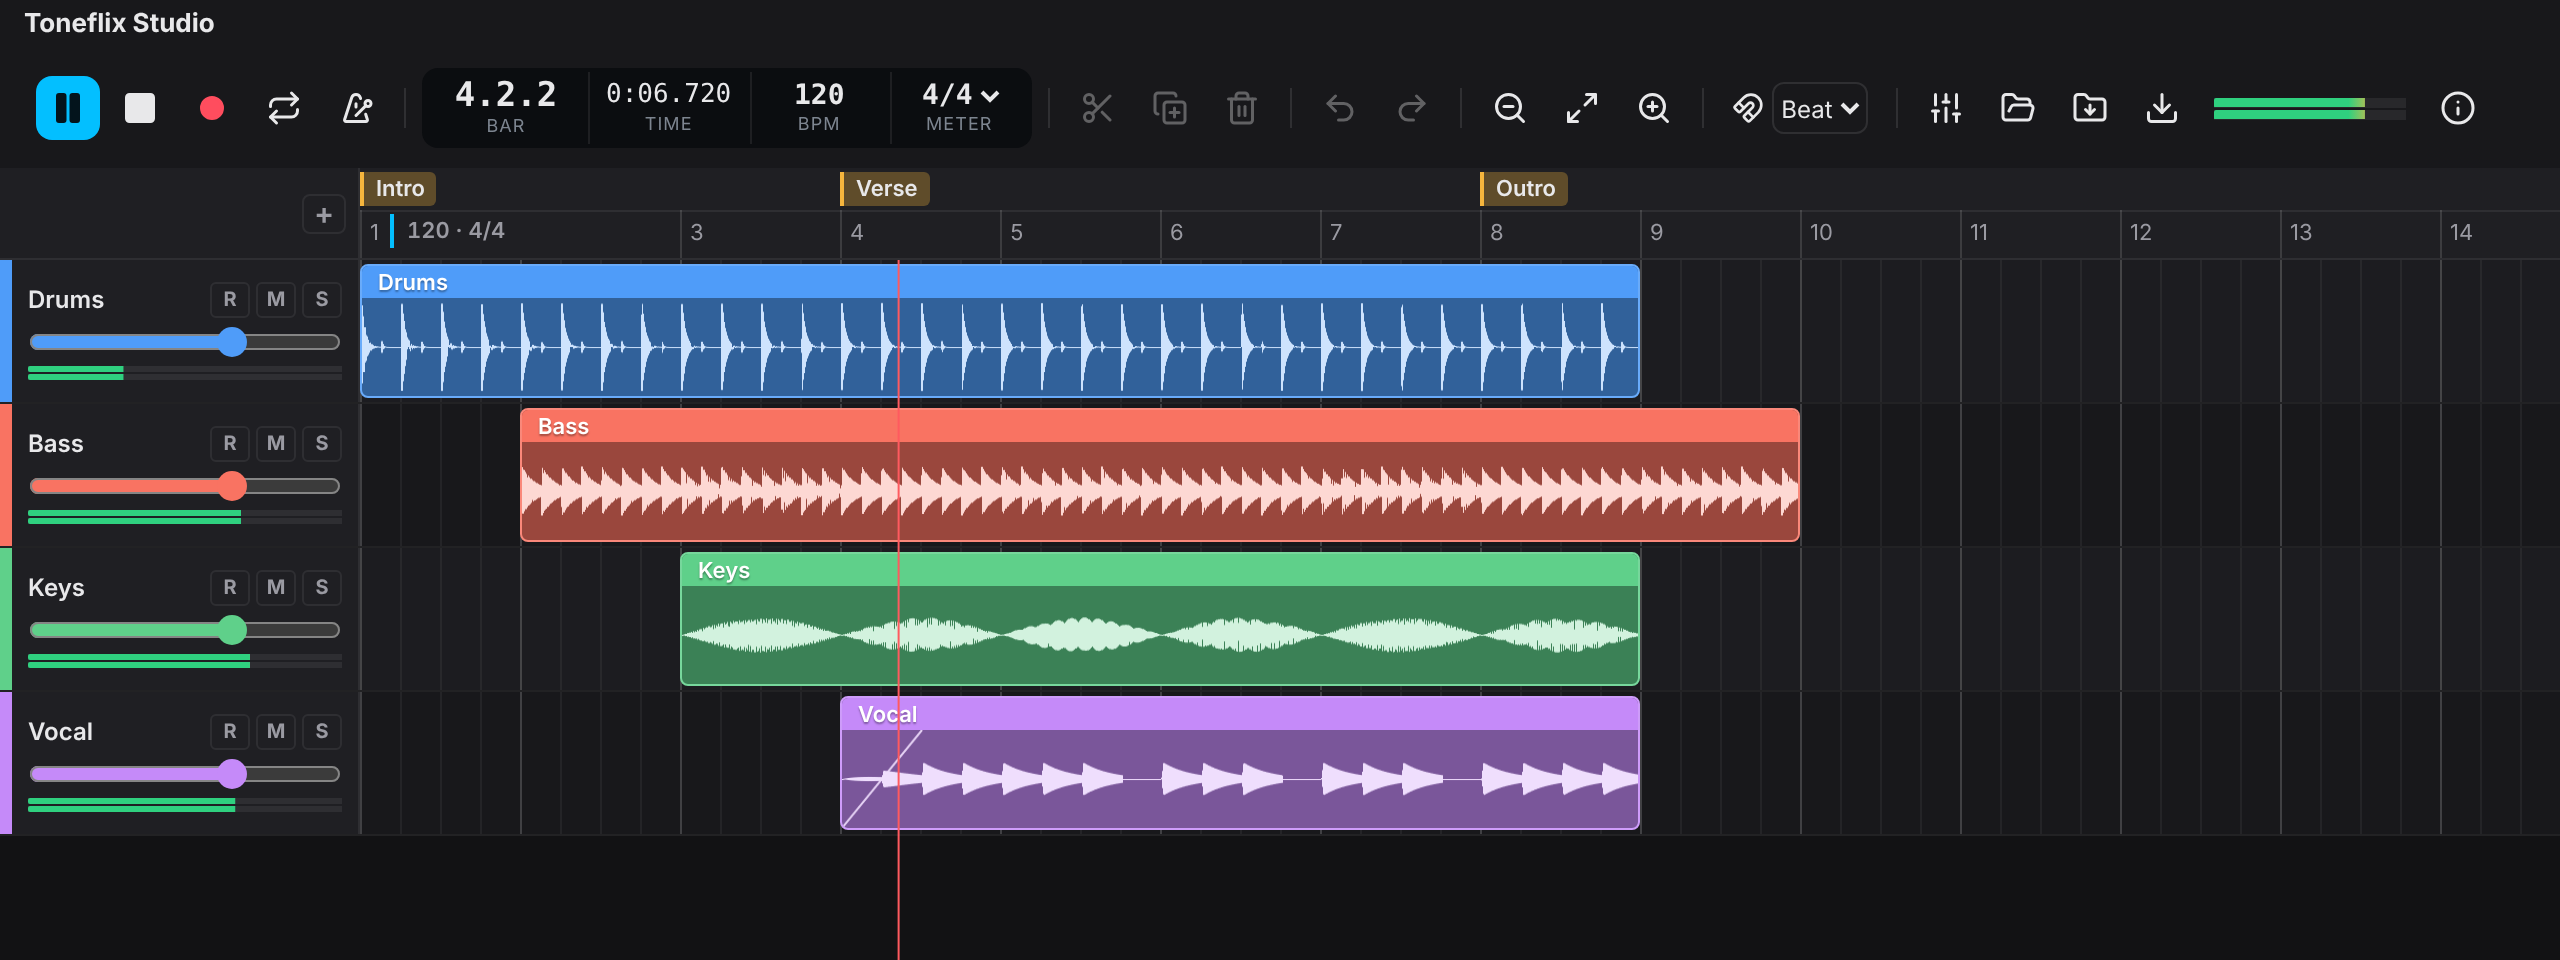
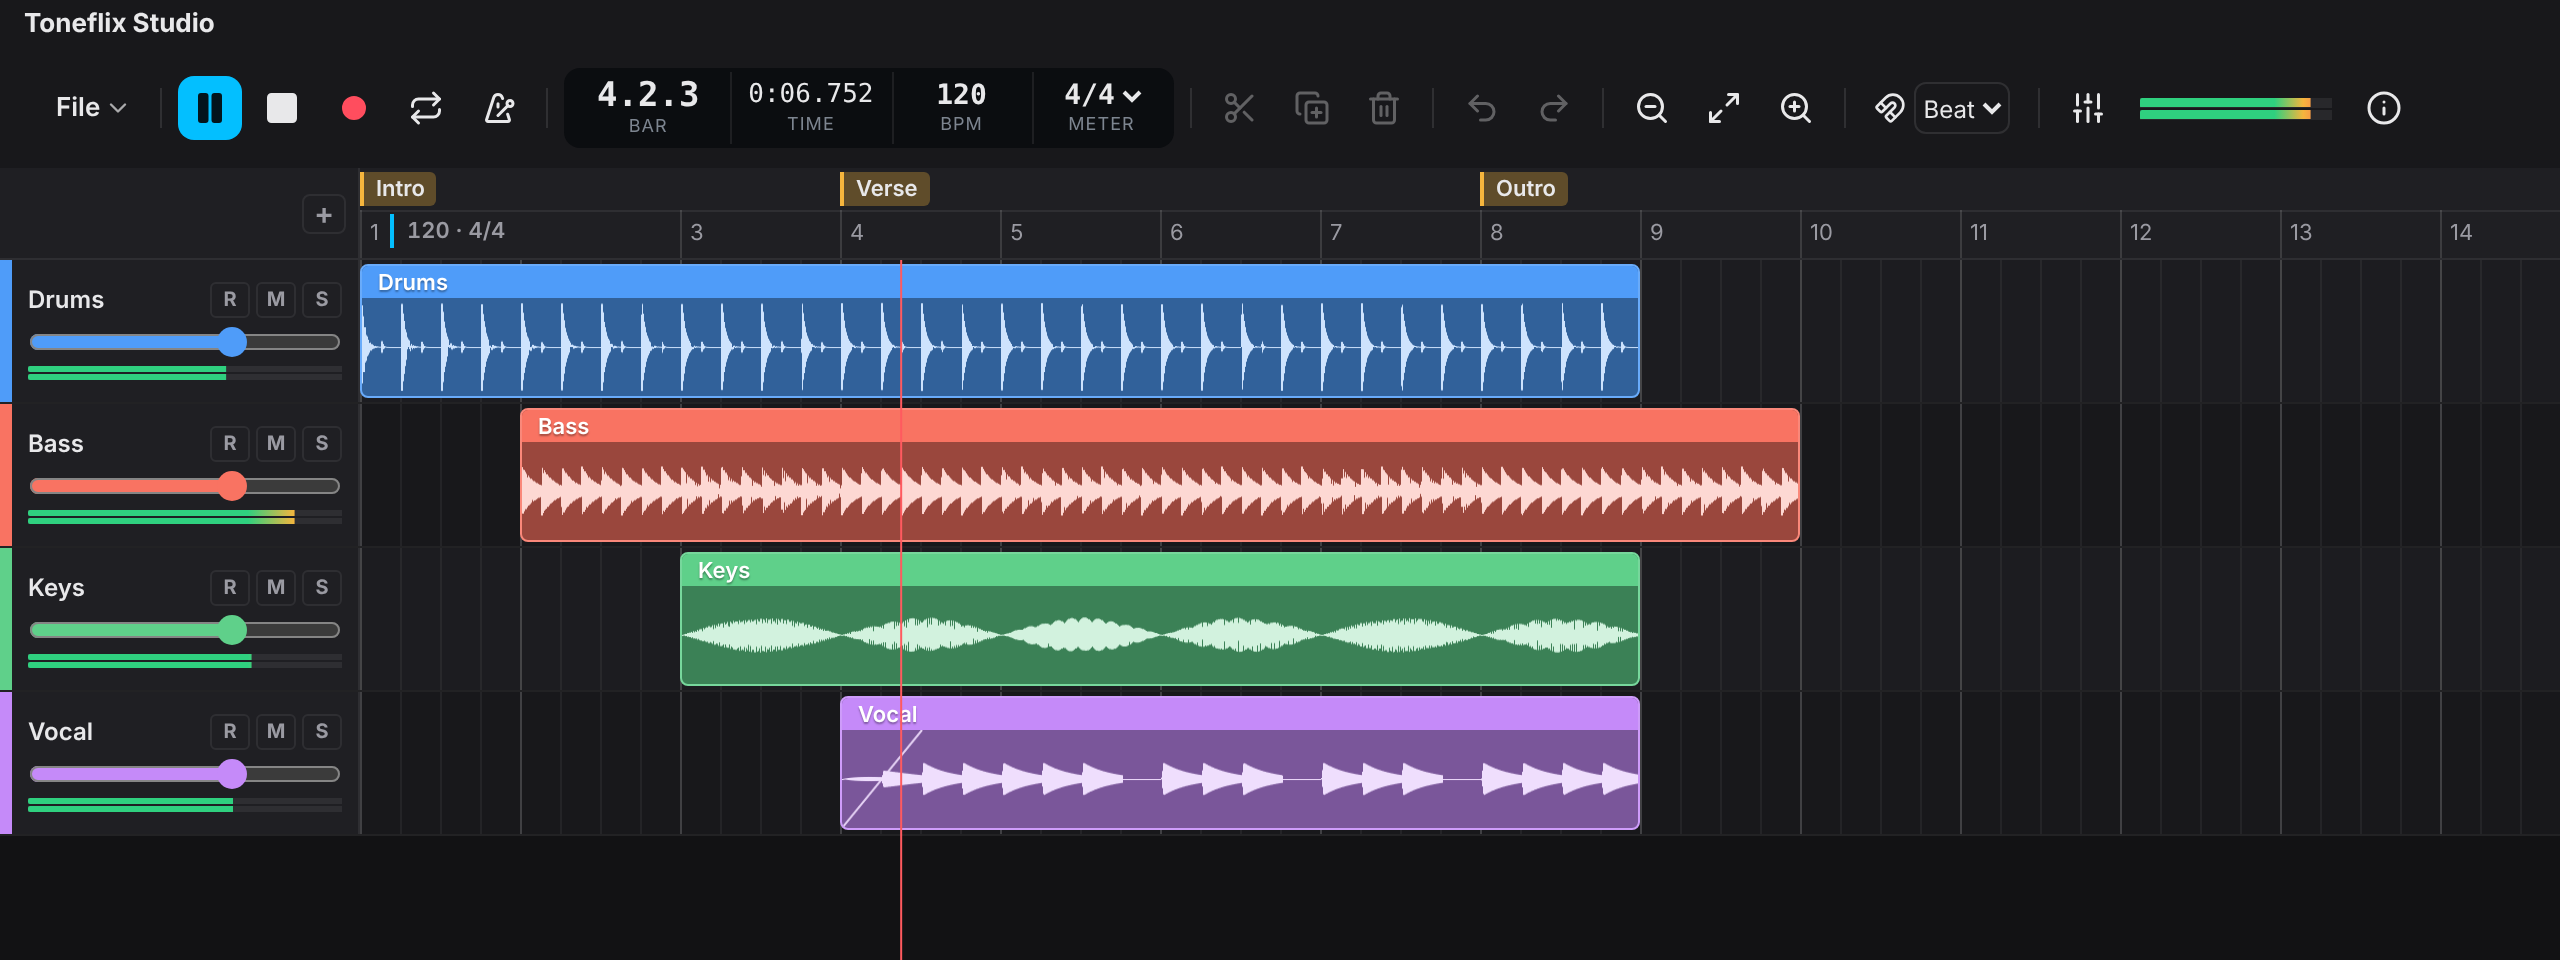
feat(controls): File menu for opening, saving and exporting
The default toolbar has a File menu in place of the open, save and export
buttons. Those items still exist for toolbars that want them as buttons.

Changed region(s): [[0.0, 0.0625, 0.9688, 0.1562], [0.0312, 0.375, 0.0938, 0.4062], [0.0938, 0.5312, 0.125, 0.5625]]

diff --git a/packages/controls/src/toolbar.ts b/packages/controls/src/toolbar.ts
@@ -11,8 +11,8 @@ import { createMeter } from './meter.ts';
 import type { StudioMixer } from './mixer-view.ts';
 import { injectControlStyles } from './styles.ts';
 
-/** A toolbar button, the snap picker, the transport display, the output meter, or `'|'` for a divider. */
-export type ToolbarItem = Exclude<IconName, 'pause' | 'mute' | 'solo' | 'save' | 'close'> | 'display' | 'meter' | '|';
+/** A toolbar button, the File menu, the snap picker, the transport display, the output meter, or `'|'` for a divider. */
+export type ToolbarItem = Exclude<IconName, 'pause' | 'mute' | 'solo' | 'save' | 'close' | 'chevron'> | 'file' | 'display' | 'meter' | '|';
 
 export type ToolbarLabels = Record<Exclude<ToolbarItem, '|'> | 'pause' | 'tempo' | 'timeSignature' | 'save' | 'close' | 'appProject' | 'reaperProject', string>;
 
@@ -85,6 +85,8 @@ export interface ToolbarOptions {
 }
 
 export const DEFAULT_TOOLBAR: ToolbarItem[] = [
+  'file',
+  '|',
   'play',
   'stop',
   'record',
@@ -107,9 +109,6 @@ export const DEFAULT_TOOLBAR: ToolbarItem[] = [
   'snap',
   '|',
   'mixer',
-  'openProject',
-  'saveProject',
-  'export',
   'meter',
   'info',
 ];
@@ -130,22 +129,23 @@ export const DEFAULT_LABELS: ToolbarLabels = {
   zoomOut: 'Zoom out',
   fit: 'Fit to view',
   snap: 'Snap',
-  export: 'Export WAV',
+  export: 'Export mix (WAV)',
   display: 'Playhead position',
   tempo: 'Tempo',
   timeSignature: 'Time signature',
   meter: 'Output level',
   info: 'Session info',
   mixer: 'Mixer',
+  file: 'File',
   saveProject: 'Save project',
-  openProject: 'Open a project',
-  appProject: '{app} project (.{ext}), with plugins',
-  reaperProject: 'REAPER project (.zip), without plugins',
+  openProject: 'Open project…',
+  appProject: 'Save as {app} project (.{ext})',
+  reaperProject: 'Save as REAPER project (.zip), without plugins',
   save: 'Save',
   close: 'Close',
 };
 
-const AUDIO: ToolbarItem[] = ['play', 'stop', 'record', 'loop', 'metronome', 'export', 'meter', 'saveProject', 'openProject'];
+const AUDIO: ToolbarItem[] = ['play', 'stop', 'record', 'loop', 'metronome', 'export', 'meter', 'saveProject', 'openProject', 'file'];
 const SNAPS: [SnapTo, string][] = [
   ['off', 'Off'],
   ['bar', 'Bar'],
@@ -206,7 +206,7 @@ export class StudioToolbar {
     const items = (options.items ?? DEFAULT_TOOLBAR).filter(
       (item) =>
         actions.has(item) ||
-        (item === 'mixer' ? !!this.mixer : item === 'record' ? !!this.recorder : this.engine || !AUDIO.includes(item as ToolbarItem) || (item === 'export' && this.onSave)),
+        (item === 'mixer' ? !!this.mixer : item === 'record' ? !!this.recorder : this.engine || !AUDIO.includes(item as ToolbarItem) || ((item === 'export' || item === 'file') && this.onSave)),
     );
 
     for (const [i, item] of items.entries()) {
@@ -220,7 +220,8 @@ export class StudioToolbar {
       } else if (item === 'snap') this.place(item, this.snapPicker());
       else if (item === 'display') this.place(item, this.display());
       else if (item === 'meter') this.place(item, this.outputMeter());
-      else this.place(item, this.button(item as Exclude<ToolbarItem, '|' | 'snap' | 'display' | 'meter'>));
+      else if (item === 'file') this.place(item, this.fileButton());
+      else this.place(item, this.button(item as Exclude<ToolbarItem, '|' | 'snap' | 'display' | 'meter' | 'file'>));
     }
 
     for (const action of actions.values()) this.addAction(action);
@@ -381,7 +382,7 @@ export class StudioToolbar {
         this.pickFormat();
         break;
       case 'openProject':
-        this.openProject();
+        this.openProject(this.buttons.get('openProject'));
         break;
       case 'info':
         this.showInfo();
@@ -432,21 +433,52 @@ export class StudioToolbar {
   /** Ask which format to save in when there is a choice, then save. */
   private pickFormat() {
     const button = this.buttons.get('saveProject');
-    const { formats, app } = this.project;
-    const save = (format: ProjectFormat) => void this.busy(button, () => this.saveProject(format));
+    const formats = this.project.formats;
 
-    if (formats.length === 1 || !button) return save(formats[0]!);
+    if (formats.length === 1 || !button) return void this.busy(button, () => this.saveProject(formats[0]!));
 
     const box = button.getBoundingClientRect();
+
+    openMenu(this.doc, { x: box.left, y: box.bottom + 4 }, this.saveItems(button), this.labels.saveProject);
+  }
+
+  /** A menu item to save in each format the toolbar offers. */
+  private saveItems(button: HTMLButtonElement | undefined) {
+    const { formats, app } = this.project;
     const label = (format: ProjectFormat) =>
       format === 'app' ? this.labels.appProject.replace('{app}', app.name).replace('{ext}', app.extension ?? DEFAULT_APP.extension) : this.labels.reaperProject;
 
-    openMenu(
-      this.doc,
-      { x: box.left, y: box.bottom + 4 },
-      formats.map((format) => ({ label: label(format), onSelect: () => save(format) })),
-      this.labels.saveProject,
-    );
+    return formats.map((format) => ({ label: label(format), onSelect: () => void this.busy(button, () => this.saveProject(format)) }));
+  }
+
+  /** The File button, which opens a menu to open and save projects and export the mix. */
+  private fileButton() {
+    const button = this.doc.createElement('button');
+    const text = this.doc.createElement('span');
+
+    button.type = 'button';
+    button.className = 'tfs-tool tfs-tool--menu';
+    button.dataset.tool = 'file';
+    button.setAttribute('aria-haspopup', 'menu');
+    text.textContent = this.labels.file;
+    button.append(text, renderIcon(this.doc, 'chevron', this.icons));
+    button.addEventListener('click', () => {
+      const box = button.getBoundingClientRect();
+      const exportLabel = this.onSave ? this.labels.save : this.labels.export;
+
+      openMenu(
+        this.doc,
+        { x: box.left, y: box.bottom + 4 },
+        [
+          ...(this.engine ? [{ label: this.labels.openProject, onSelect: () => this.openProject(button) }, ...this.saveItems(button)] : []),
+          { label: exportLabel, onSelect: () => void this.busy(button, () => (this.onSave ? this.onSave(this.context) : this.download())) },
+        ],
+        this.labels.file,
+      );
+    });
+    this.buttons.set('file', button);
+
+    return button;
   }
 
   /** Download the session as a project; the app format keeps the plugins. */
@@ -464,7 +496,7 @@ export class StudioToolbar {
   }
 
   /** Pick an app project, a zipped REAPER project, or an .rpp with its audio files, and open it. */
-  private openProject() {
+  private openProject(button: HTMLButtonElement | undefined) {
     const engine = this.engine;
     if (!engine) return;
 
@@ -477,7 +509,7 @@ export class StudioToolbar {
       const files = [...(input.files ?? [])];
       if (!files.length) return;
 
-      void this.busy(this.buttons.get('openProject'), async () => {
+      void this.busy(button, async () => {
         const result = await openProject(files.length === 1 ? files[0]! : files, this.timeline, engine, {
           onSource: this.project.onProjectSource,
           plugins: this.plugins,
@@ -558,7 +590,7 @@ export class StudioToolbar {
     return meter.element;
   }
 
-  private button(item: Exclude<ToolbarItem, '|' | 'snap' | 'display' | 'meter'>) {
+  private button(item: Exclude<ToolbarItem, '|' | 'snap' | 'display' | 'meter' | 'file'>) {
     const button = this.doc.createElement('button');
 
     button.type = 'button';

diff --git a/packages/controls/src/styles.ts b/packages/controls/src/styles.ts
@@ -32,6 +32,8 @@ export const CONTROL_STYLES = `
 .tfs-tool[aria-pressed='true'], .tfs-tool--primary { background: var(--tfs-toolbar-active, #03bfff); color: var(--tfs-toolbar-active-text, #03141c); }
 .tfs-tool[aria-pressed='true']:hover:not(:disabled), .tfs-tool--primary:hover:not(:disabled) { background: var(--tfs-toolbar-active, #03bfff); filter: brightness(1.1); }
 .tfs-tool .tfs-icon { width: 18px; height: 18px; }
+.tfs-tool.tfs-tool--menu { width: auto; gap: 2px; padding: 0 6px 0 10px; font: 600 13px/1 system-ui, sans-serif; }
+.tfs-tool.tfs-tool--menu .tfs-icon { width: 14px; height: 14px; opacity: 0.7; }
 .tfs-toolbar-gap { width: 1px; height: 20px; margin: 0 4px; background: var(--tfs-toolbar-line, rgba(255, 255, 255, 0.1)); }
 .tfs-snap-pick { display: inline-flex; align-items: center; gap: 4px; height: var(--tfs-toolbar-size, 32px); padding: 0 6px; border-radius: 8px; }
 .tfs-snap-pick .tfs-icon { width: 16px; height: 16px; }

diff --git a/docs/.vitepress/theme/Landing.vue b/docs/.vitepress/theme/Landing.vue
@@ -79,7 +79,7 @@ onMounted(async () => {
     mixer,
     recorder,
     plugins,
-    items: ['play', 'stop', 'record', 'loop', 'metronome', '|', 'display', '|', 'split', 'duplicate', 'delete', '|', 'undo', 'redo', '|', 'zoomOut', 'fit', 'zoomIn', '|', 'mixer', 'openProject', 'saveProject', 'meter'],
+    items: ['file', '|', 'play', 'stop', 'record', 'loop', 'metronome', '|', 'display', '|', 'split', 'duplicate', 'delete', '|', 'undo', 'redo', '|', 'zoomOut', 'fit', 'zoomIn', '|', 'mixer', 'meter'],
     onProjectSource: (id, buffer) => void waveforms.get(`project:${id}:${buffer.length}`, () => buffer).then((peaks) => view.setSource({ id }, peaks)),
   });
   loadSample(view, { engine: audio, waveforms });

diff --git a/packages/controls/src/lucide.ts b/packages/controls/src/lucide.ts
@@ -27,4 +27,5 @@ export const lucideIcons = {
   mixer: '<path d="M10 8h4"/><path d="M12 21v-9"/><path d="M12 8V3"/><path d="M17 16h4"/><path d="M19 12V3"/><path d="M19 21v-5"/><path d="M3 14h4"/><path d="M5 10V3"/><path d="M5 21v-7"/>',
   saveProject: '<path d="M20 20a2 2 0 0 0 2-2V8a2 2 0 0 0-2-2h-7.9a2 2 0 0 1-1.69-.9L9.6 3.9A2 2 0 0 0 7.93 3H4a2 2 0 0 0-2 2v13a2 2 0 0 0 2 2Z"/><path d="M12 10v6"/><path d="m15 13-3 3-3-3"/>',
   openProject: '<path d="m6 14 1.5-2.9A2 2 0 0 1 9.24 10H20a2 2 0 0 1 1.94 2.5l-1.54 6a2 2 0 0 1-1.95 1.5H4a2 2 0 0 1-2-2V5a2 2 0 0 1 2-2h3.9a2 2 0 0 1 1.69.9l.81 1.2a2 2 0 0 0 1.67.9H18a2 2 0 0 1 2 2v2"/>',
+  chevron: '<path d="m6 9 6 6 6-6"/>',
 };

diff --git a/scripts/icons.ts b/scripts/icons.ts
@@ -28,6 +28,7 @@ const icons: Record<string, string> = {
   mixer: 'sliders-vertical',
   saveProject: 'folder-down',
   openProject: 'folder-open',
+  chevron: 'chevron-down',
 };
 
 /** Shape attributes changed from Lucide's: the record dot is drawn smaller, as on hardware. */

diff --git a/docs/guide/controls.md b/docs/guide/controls.md
@@ -14,7 +14,7 @@ new StudioToolbar('#toolbar', { timeline, engine });
 linkPlayback(timeline, engine);
 ```
 
-The default toolbar has play, stop, loop and metronome, the transport display, split, duplicate, delete, undo, redo, zoom, fit, snap, the mixer, open and save a [project](./projects) in your app's format or REAPER's, export, the output meter and info. Undo, redo, split, duplicate and delete are disabled when there's nothing to do. Play turns into pause while playing.
+The default toolbar has a File menu, play, stop, loop and metronome, the transport display, split, duplicate, delete, undo, redo, zoom, fit, snap, the mixer, the output meter and info. The File menu opens and saves a [project](./projects), in your app's format or REAPER's, and exports the mix as a WAV file (or calls `onSave`). `openProject`, `saveProject` and `export` are also items of their own, for toolbars that want them as buttons. Undo, redo, split, duplicate and delete are disabled when there's nothing to do. Play turns into pause while playing.
 
 Pick the buttons and their order with `items`. `'|'` adds a divider:
 
@@ -179,7 +179,7 @@ setDefaultIcons({ play: playSvg, pause: pauseSvg, stop: stopSvg });
 
 Mute and solo show the letters M and S unless you give them icons. The arm button always shows R.
 
-Icon names: `play`, `pause`, `stop`, `record`, `loop`, `metronome`, `split`, `duplicate`, `delete`, `undo`, `redo`, `zoomIn`, `zoomOut`, `fit`, `snap`, `export`, `mute`, `solo`, `info`, `save`, `close`, `mixer`, `saveProject` and `openProject`. Icons use `currentColor`, so they take the button's text colour. Play, pause, stop and record are solid shapes; the rest are outlines.
+Icon names: `play`, `pause`, `stop`, `record`, `loop`, `metronome`, `split`, `duplicate`, `delete`, `undo`, `redo`, `zoomIn`, `zoomOut`, `fit`, `snap`, `export`, `mute`, `solo`, `info`, `save`, `close`, `mixer`, `saveProject`, `openProject` and `chevron` (beside File). Icons use `currentColor`, so they take the button's text colour. Play, pause, stop and record are solid shapes; the rest are outlines.
 
 ## Styling
 

diff --git a/docs/guide/projects.md b/docs/guide/projects.md
@@ -11,10 +11,13 @@ Pick the app format to keep working later, and REAPER to finish a song in a desk
 
 ## From the toolbar
 
-The toolbar has two buttons for this, beside the mixer button:
+The toolbar's **File** menu has:
 
-- **Save project** asks which format to save in, then downloads the file.
-- **Open a project** takes either format back: an app project, a zip with an `.rpp` and its audio, or an `.rpp` picked together with its audio files.
+- **Open project…**, which takes either format back: an app project, a zip with an `.rpp` and its audio, or an `.rpp` picked together with its audio files.
+- **Save as {app} project** and **Save as REAPER project**, which download the file.
+- **Export mix (WAV)**.
+
+The `openProject` and `saveProject` items put the same actions on buttons of their own; with more than one format, the save button asks which.
 
 ```ts
 new StudioToolbar('#toolbar', {
